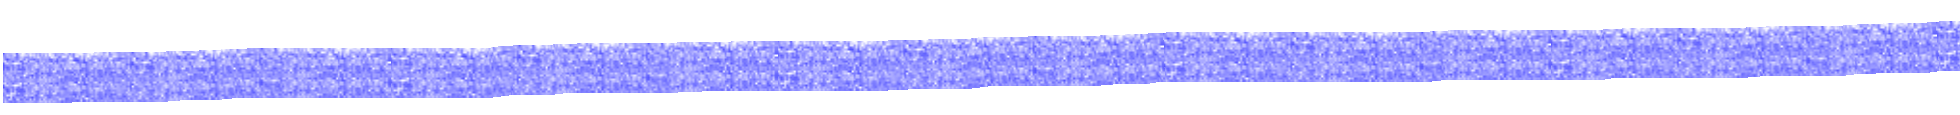
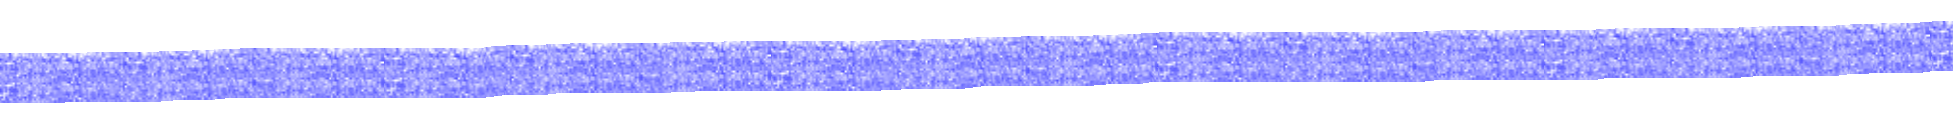
getting further with the design

Changed region(s): [[0.0, 0.2609, 0.8746, 0.913], [0.8121, 0.4957, 0.8433, 0.5217]]

diff --git a/src/components/ContactLinks.vue b/src/components/ContactLinks.vue
@@ -3,13 +3,25 @@
     <div class="section-grid__content">
       <div class="content-item">
         <a href="https://www.linkedin.com/in/elma-harmsen/" target="_blank">
-          <h2>linkedin/elma-harmsen</h2>
+          <div class="content-item__container">
+            <img class="long-image" src="../assets/imgs/long-line-1.png" alt="" />
+            <h2>linkedin/elma-harmsen</h2>
+          </div>
         </a>
         <a href="https://github.com/ElmaHarmsen" target="_blank">
-          <h2>github/ElmaHarmsen</h2>
+          <div class="content-item__container">
+            <img class="long-image" src="../assets/imgs/long-line-2.png" alt="" />
+            <h2>github/ElmaHarmsen</h2>
+          </div>
         </a>
-        <h2>drive.google/Resume</h2>
-        <h2>elmaharmsen01@gmail.com</h2>
+        <div class="content-item__container">
+          <img class="long-image" src="../assets/imgs/long-line-3.png" alt="" />
+          <h2>drive.google/Resume</h2>
+        </div>
+        <div class="content-item__container">
+          <img class="long-image" src="../assets/imgs/long-line-4.png" alt="" />
+          <h2>elmaharmsen01@gmail.com</h2>
+        </div>
         <br />
       </div>
     </div>
@@ -17,10 +29,30 @@
 </template>
 
 <style lang="scss" scoped>
+.line-image {
+  width: 150px;
+  transform: translateX(150px) translateY(5px);
+  position: absolute;
+}
+
 .content-item {
   display: flex;
   flex-flow: column nowrap;
   justify-content: flex-end;
   height: 100%;
+
+  &__container {
+    display: flex;
+    flex-flow: column nowrap;
+
+    .long-image {
+      position: absolute;
+      z-index: 1;
+      right: 0;
+      width: calc(30% + 350px);
+      height: 30px;
+      transform: translateY(5px);
+    }
+  }
 }
 </style>

diff --git a/src/components/HelloWorld.vue b/src/components/HelloWorld.vue
@@ -3,24 +3,20 @@
     <div class="landing-grid__title">
       <h1>
         Designing <br />
-        Human Centred
+        Human-Centred
       </h1>
-      <!-- <h2>{{ subHeading }}</h2> -->
+      <img class="line-image" src="../assets/imgs/under-line-1.png" alt="" />
     </div>
     <div class="landing-grid__content">
       <div class="content-item">
-        <p>
-          Introducing an interaction designer and user experience researcher. I am specialised in
-          the researching, designing and evaluating of many kinds of human-computer based
-          interactions and human-centred technologies.
-        </p>
         <h2>Because we're all Human</h2>
+        <p>Elma H.</p>
       </div>
     </div>
     <div class="image-container">
       <img
         class="image-container__figure"
-        src="../assets/imgs/stickyfig.png"
+        src="../assets/imgs/stick-figure-4.png"
         alt="hand-drawn stick figure"
       />
     </div>
@@ -28,6 +24,12 @@
 </template>
 
 <style lang="scss" scoped>
+.line-image {
+  width: 300px;
+  transform: translateX(-635px) translateY(-30px);
+  position: absolute;
+}
+
 .landing-grid {
   display: grid;
   grid-template-columns: 5% 1fr 30%;
@@ -50,7 +52,7 @@
     .content-item {
       display: flex;
       flex-flow: column nowrap;
-      justify-content: space-between;
+      row-gap: 30px;
       height: 100%;
 
       p {
@@ -60,13 +62,14 @@
     }
   }
   .image-container {
+    position: absolute;
+    right: calc(30% + 350px + 100px);
     grid-column: 2;
-    grid-row: 3 / span 2;
-    justify-self: start;
+    grid-row: 3 / span 3;
     align-self: end;
 
     &__figure {
-      height: 500px;
+      height: 350px;
       grid-column-start: 2;
     }
   }

diff --git a/src/components/AboutSection.vue b/src/components/AboutSection.vue
@@ -6,7 +6,7 @@
     </div>
     <div class="section-grid__content">
       <div class="content-item">
-        <h2 class="content-item__heading">Smth</h2>
+        <h2 class="content-item__heading">Who Am I?</h2>
         <p>
           Lorem ipsum dolor sit amet, consectetur adipiscing elit. Praesent libero mauris, hendrerit
           non dapibus aliquet, scelerisque at magna. Nulla euismod est eleifend, egestas ligula sit
@@ -14,7 +14,18 @@
         </p>
       </div>
       <div class="content-item">
-        <h2 class="content-item__heading">smth</h2>
+        <h2 class="content-item__heading">Humans</h2>
+        <p>
+          Lorem ipsum dolor sit amet, consectetur adipiscing elit. Praesent libero mauris, hendrerit
+          non dapibus aliquet, scelerisque at magna. Nulla euismod est eleifend, egestas ligula sit
+          amet, lobortis nulla. Nam vel urna rhoncus, ultricies ante nec, feugiat libero. Vestibulum
+          porttitor fermentum lectus eu volutpat. In sit amet tempor arcu. Vivamus lacus lorem,
+          vulputate a purus sed, sollicitudin imperdiet justo. Donec ex urna, maximus eget massa
+          quis, vehicula pharetra diam. Aenean id nulla tellus. <br />
+        </p>
+      </div>
+      <div class="content-item">
+        <h2 class="content-item__heading">Optimism</h2>
         <p>
           Lorem ipsum dolor sit amet, consectetur adipiscing elit. Praesent libero mauris, hendrerit
           non dapibus aliquet, scelerisque at magna. Nulla euismod est eleifend, egestas ligula sit

diff --git a/src/components/HelloExperience.vue b/src/components/HelloExperience.vue
@@ -1,13 +1,25 @@
 <template>
   <section class="landing-grid">
     <div class="landing-grid__title">
-      <h1>My Recent Work</h1>
+      <h1>
+        Here's My <br />
+        Work Experience
+      </h1>
     </div>
     <div class="landing-grid__content">
       <div class="content-item">
-        <h2>Daily UI Challenges</h2>
-        <h2>UX Team Project</h2>
-        <h2>Robot-AI Research</h2>
+        <div class="content-item__container">
+          <img class="long-image" src="../assets/imgs/long-line-1.png" alt="" />
+          <h2>Daily UI Challenges</h2>
+        </div>
+        <div class="content-item__container">
+          <img class="long-image" src="../assets/imgs/long-line-2.png" alt="" />
+          <h2>UX Team Project</h2>
+        </div>
+        <div class="content-item__container">
+          <img class="long-image" src="../assets/imgs/long-line-3.png" alt="" />
+          <h2>Robot-AI Research</h2>
+        </div>
       </div>
     </div>
   </section>
@@ -44,6 +56,28 @@
         text-align: justify;
         background-color: var(--bg-white);
       }
+    }
+  }
+}
+
+.line-image {
+  width: 150px;
+  transform: translateX(150px) translateY(5px);
+  position: absolute;
+}
+
+.content-item {
+  &__container {
+    display: flex;
+    flex-flow: column nowrap;
+
+    .long-image {
+      position: absolute;
+      z-index: 1;
+      right: 0;
+      width: calc(30% + 350px);
+      height: 30px;
+      transform: translateY(5px);
     }
   }
 }

diff --git a/src/components/ContactSection.vue b/src/components/ContactSection.vue
@@ -6,7 +6,10 @@
     </div>
     <div class="section-grid__content">
       <div class="content-item">
-        <p>When our paths cross, then let us say hello.</p>
+        <p>
+          When our paths cross, then let us say <span class="italic-text">hello</span>. <br />
+          I am looking for new opportunities
+        </p>
       </div>
       <div class="content-item">
         <a href="https://www.linkedin.com/in/elma-harmsen/" target="_blank">
@@ -17,16 +20,16 @@
         </a>
         <a href="https://github.com/ElmaHarmsen" target="_blank">
           <div class="content-item__container">
-            <img class="long-image" src="../assets/imgs/long-line-1.png" alt="" />
+            <img class="long-image" src="../assets/imgs/long-line-2.png" alt="" />
             <h2>github/ElmaHarmsen</h2>
           </div>
         </a>
         <div class="content-item__container">
-          <img class="long-image" src="../assets/imgs/long-line-1.png" alt="" />
+          <img class="long-image" src="../assets/imgs/long-line-3.png" alt="" />
           <h2>drive.google/Resume</h2>
         </div>
         <div class="content-item__container">
-          <img class="long-image" src="../assets/imgs/long-line-1.png" alt="" />
+          <img class="long-image" src="../assets/imgs/long-line-4.png" alt="" />
           <h2>elmaharmsen01@gmail.com</h2>
         </div>
         <br />

diff --git a/src/components/RobotAIResearch.vue b/src/components/RobotAIResearch.vue
@@ -7,12 +7,12 @@
       <div class="content-item">
         <img
           class="content-item__image"
-          src="../assets/imgs/RobotScene1.png"
+          src="../assets/imgs/RobotScene3.png"
           alt="Daily UI #27 Gradient picker dropdown"
         />
       </div>
       <div class="content-item">
-        <h2>Paragraph Title</h2>
+        <h2>Humans & Robots</h2>
         <p>
           Lorem ipsum dolor sit amet, consectetur adipiscing elit. Praesent libero mauris, hendrerit
           non dapibus aliquet, scelerisque at magna. Nulla euismod est eleifend, egestas ligula sit
@@ -25,7 +25,7 @@
       <div class="content-item">
         <img
           class="content-item__image"
-          src="../assets/imgs/RobotScene3.png"
+          src="../assets/imgs/RobotScene1.png"
           alt="Daily UI #27 Gradient picker dropdown"
         />
       </div>

diff --git a/src/components/ExperienceSection.vue b/src/components/ExperienceSection.vue
@@ -31,8 +31,8 @@
       </div>
       <router-link to="/experience">
         <div class="content-item__container">
+          <img class="long-image" src="../assets/imgs/long-line-3.png" alt="" />
           <h2 class="link-text">There's More To See</h2>
-          <img class="long-image" src="../assets/imgs/long-line-1.png" alt="" />
         </div>
       </router-link>
     </div>
@@ -73,17 +73,13 @@
     display: flex;
     flex-flow: column nowrap;
 
-    .link-text {
-      text-align: right;
-    }
-
     .long-image {
       position: absolute;
       z-index: 1;
-      left: 0;
-      width: calc(100% - (30%));
+      right: 0;
+      width: calc(30% + 350px);
       height: 30px;
-      transform: translateY(10px);
+      transform: translateY(5px);
     }
   }
 }

diff --git a/src/assets/base.css b/src/assets/base.css
@@ -1,7 +1,7 @@
 /* color palette from <https://github.com/vuejs/theme> */
 :root {
-  --bg-white: #ffffff; /*#f5f5f5;*/
-  --dot-gray: #e2e2df;
+  --bg-white: #f5f5f5; /*#f5f5f5;*/
+  --dot-gray: #d9d9d4;
   --text-black: #0a0a0a;
   --bright-blue: #0000ff;
 }
@@ -32,7 +32,6 @@ body {
   text-rendering: optimizeLegibility;
   -webkit-font-smoothing: antialiased;
   -moz-osx-font-smoothing: grayscale;
-  background: white;
   background-image: radial-gradient(var(--dot-gray) 1px, transparent 0);
   background-attachment: fixed;
   background-size: 20px 20px;

diff --git a/src/assets/main.scss b/src/assets/main.scss
@@ -15,6 +15,10 @@
   }
 } */
 
+.italic-text {
+  font-style: italic;
+}
+
 .section-grid {
   display: grid;
   grid-template-columns: 10% 1fr 5%;
